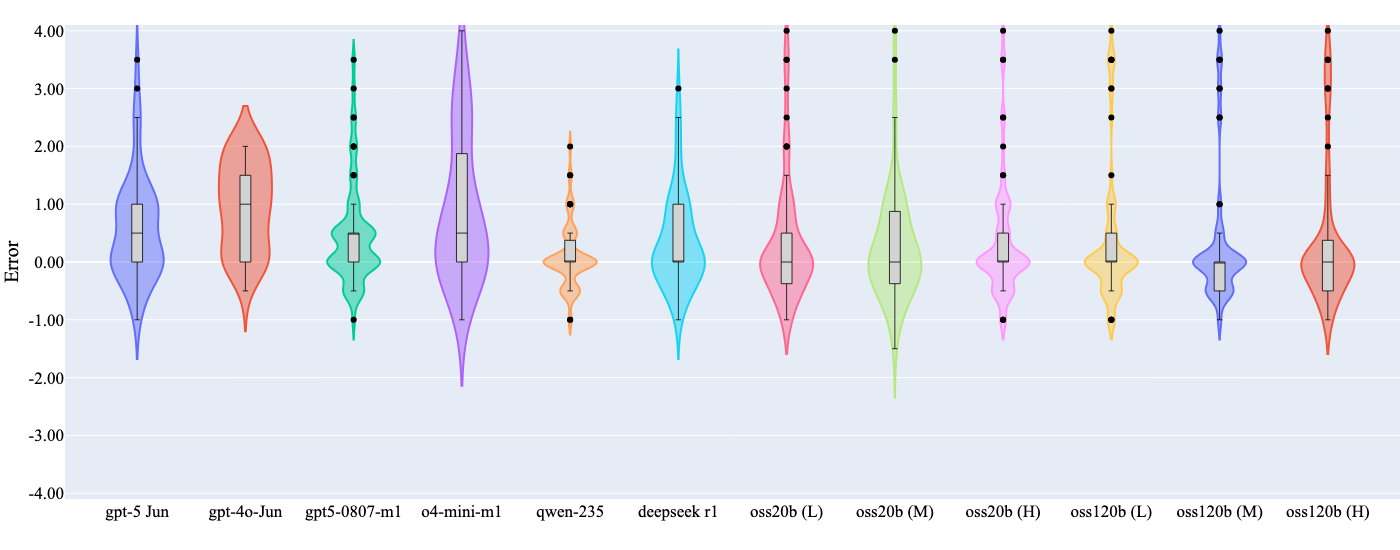
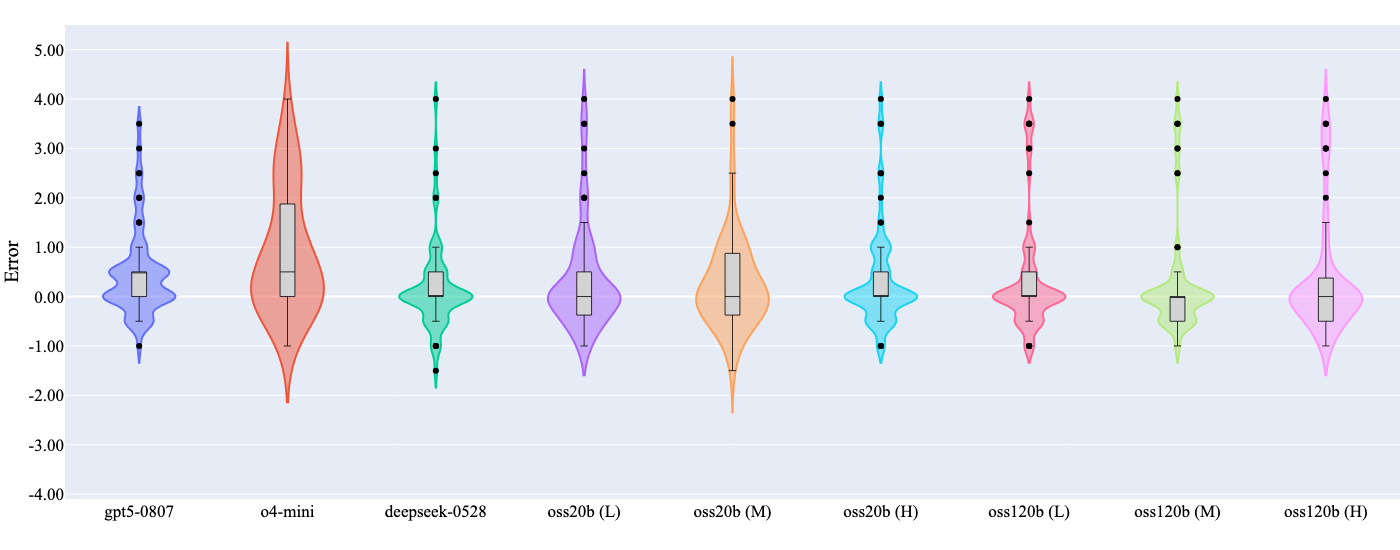
Refine model filtering and update violin plot y-axis
Improved model column filtering in parse_nmed_csv to exclude deepseek v2/v3 and beam variants, and standardized model naming. Updated violin plot y-axis range and ticks to accommodate larger error values. Regenerated output violin plot images to reflect these changes.

diff --git a/chart2violin/nmed_error_violin_plot.py b/chart2violin/nmed_error_violin_plot.py
@@ -16,9 +16,34 @@ def parse_nmed_csv(filename):
     header = lines[0].strip().split(',')
     model_columns = header[6:]  # Skip first 6 metadata columns
     
-    # Initialize error lists for each model
-    for model in model_columns:
-        model_errors[model.strip()] = []
+    # Create mapping of original columns to filtered columns
+    all_model_columns = header[6:]  # All original model columns
+    filtered_model_indices = []
+    filtered_model_names = []
+    
+    for idx, model in enumerate(all_model_columns):
+        model_clean = model.strip()
+        # Skip deepseek v2 and v3 (keep only v1)
+        if 'deepseek' in model_clean.lower() and ('-v2' in model_clean.lower() or '-v3' in model_clean.lower()):
+            continue
+        # Skip beam variants (we have regular oss20b (L) already)
+        if 'beam' in model_clean.lower():
+            continue
+        
+        # Rename deepseek-0528-v1 to deepseek-0528 (remove -v1 suffix)
+        if 'deepseek' in model_clean.lower() and '-v1' in model_clean.lower():
+            model_clean = model_clean.replace('-v1', '')
+        
+        # Remove -m1 suffix from gpt5 and o4-mini
+        if ('gpt5' in model_clean.lower() or 'o4-mini' in model_clean.lower()) and '-m1' in model_clean.lower():
+            model_clean = model_clean.replace('-m1', '')
+        
+        filtered_model_indices.append(idx)
+        filtered_model_names.append(model_clean)
+    
+    # Initialize error lists for each filtered model
+    for model in filtered_model_names:
+        model_errors[model] = []
     
     for i, line in enumerate(lines[1:], 1):  # Skip header
         line = line.strip()
@@ -53,11 +78,11 @@ def parse_nmed_csv(filename):
                 if human_score_str and re.match(r'^[0-9]*\.?[0-9]+$', human_score_str):
                     human_score = float(human_score_str)
                     
-                    # Calculate errors for each model
-                    for j, (model_col, model_score) in enumerate(zip(model_columns, scores)):
-                        if model_score is not None:
-                            error = human_score - model_score
-                            model_errors[model_col.strip()].append(error)
+                    # Calculate errors for each filtered model using original indices
+                    for idx, model_name in zip(filtered_model_indices, filtered_model_names):
+                        if idx < len(scores) and scores[idx] is not None:
+                            error = human_score - scores[idx]
+                            model_errors[model_name].append(error)
     
     return model_errors
 
@@ -94,15 +119,15 @@ def create_violin_plot(model_errors, title, filename, output_dir):
 
     # Update layout following the reference format
     fig.update_layout(showlegend=False)
-    fig.update_yaxes(range=[-4.1, 4.1])
+    fig.update_yaxes(range=[-4.1, 5.5])
     fig.update_layout(
         font=dict(family='times new roman', size=17, color="#000000"),
         width=1400,
         height=550,
         xaxis=dict(title=""),
         yaxis=dict(title="Error",
-                   tickvals=[-4, -3, -2, -1, 0, 1, 2, 3, 4],
-                   ticktext=["-4.00", "-3.00", "-2.00", "-1.00", "0.00", "1.00", "2.00", "3.00", "4.00"],
+                   tickvals=[-4, -3, -2, -1, 0, 1, 2, 3, 4, 5],
+                   ticktext=["-4.00", "-3.00", "-2.00", "-1.00", "0.00", "1.00", "2.00", "3.00", "4.00", "5.00"],
                    showticklabels=True),
         title=dict(text='')
     )
